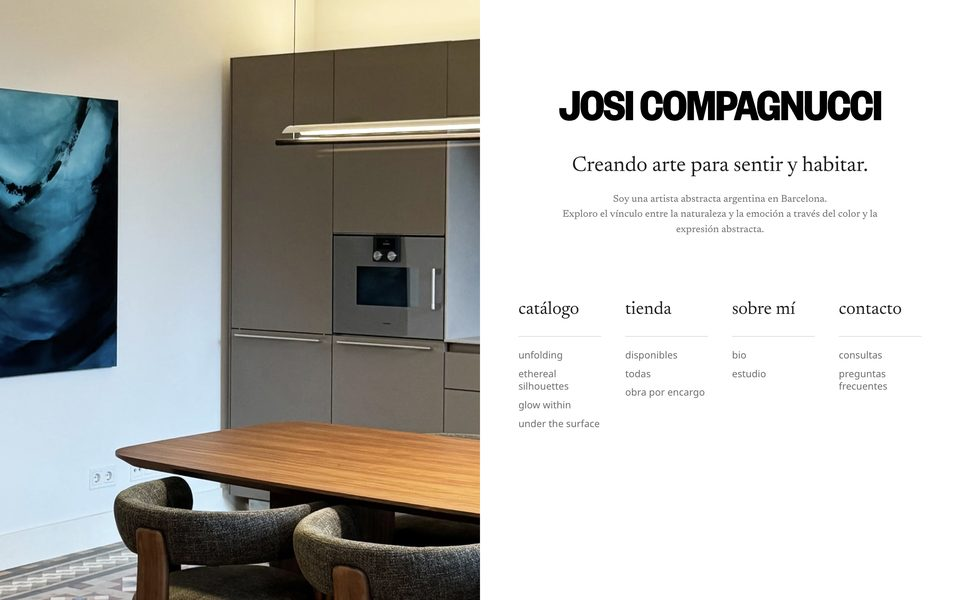
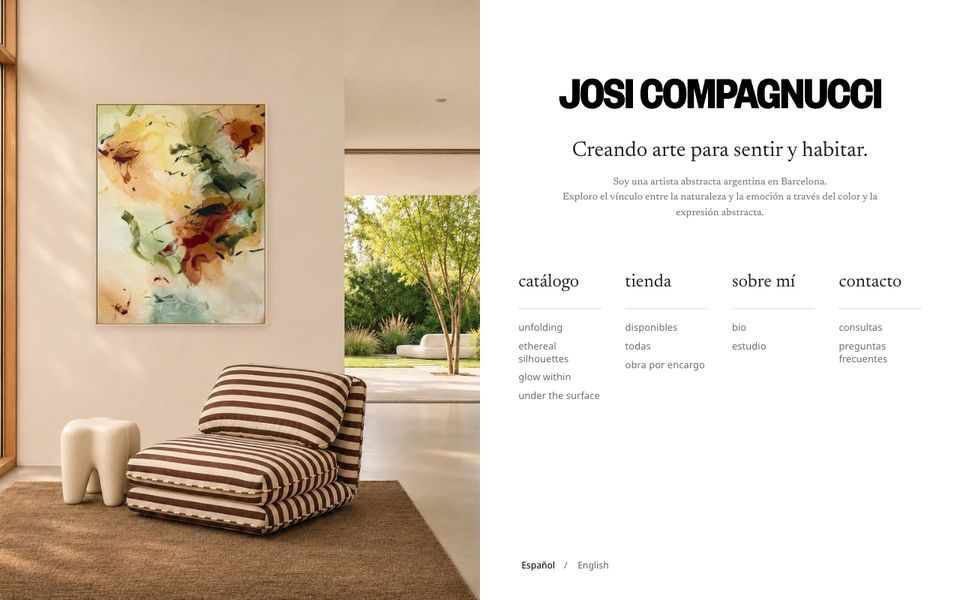
feat: la tienda de Josi Compagnucci pasa a En línea

diff --git a/index.html b/index.html
@@ -247,8 +247,8 @@
         <p class="cl-rotulo"><span class="cl-izq"><span class="cl-par" aria-hidden="true">( </span><span class="cl-t" data-i18n="mk_h">Avanzando juntos</span><span class="cl-par" aria-hidden="true"> ) ↓</span></span></p>
       </div>
       <div class="cl-cinta" aria-label="Algunos de mis clientes" data-i18n-aria="mk_aria">
-        <ul class="cl-pista"><li><a href="https://melou.com.ar" target="_blank" rel="noopener" aria-label="melou"><span class="marca m-melou"></span></a></li><li><a href="https://baza.com.ar" target="_blank" rel="noopener" aria-label="BAZA"><span class="marca m-baza"></span></a></li><li><a href="https://canadahumeda.com.ar" target="_blank" rel="noopener" aria-label="Cañada Húmeda"><span class="marca m-canada"></span></a></li><li><a href="https://airesdesanlorenzo.com" target="_blank" rel="noopener" aria-label="Aires de San Lorenzo"><span class="marca m-aires"></span></a></li><li><a href="https://sauriumchukum.com" target="_blank" rel="noopener" aria-label="Saurium"><span class="marca m-saurium"></span></a></li><li><a href="https://edificiolatorre.com" target="_blank" rel="noopener" aria-label="Edificio La Torre"><span class="marca m-latorre"></span></a></li><li><a href="https://franciscomolins.com" target="_blank" rel="noopener" aria-label="Francisco Molins"><span class="marca m-molins"></span></a></li><li><span class="marca-par"><span class="marca m-bf"></span>BF Studio</span></li><li><a href="https://mavenz.com.ar" target="_blank" rel="noopener" aria-label="MAVENZ"><span class="marca m-mavenz"></span></a></li><li><span class="marca m-josi" role="img" aria-label="Josi Compagnucci"></span></li><li><span class="marca m-retazos" role="img" aria-label="RETAZOS"></span></li></ul>
-        <ul class="cl-pista" aria-hidden="true" inert><li><a href="https://melou.com.ar" target="_blank" rel="noopener" aria-label="melou"><span class="marca m-melou"></span></a></li><li><a href="https://baza.com.ar" target="_blank" rel="noopener" aria-label="BAZA"><span class="marca m-baza"></span></a></li><li><a href="https://canadahumeda.com.ar" target="_blank" rel="noopener" aria-label="Cañada Húmeda"><span class="marca m-canada"></span></a></li><li><a href="https://airesdesanlorenzo.com" target="_blank" rel="noopener" aria-label="Aires de San Lorenzo"><span class="marca m-aires"></span></a></li><li><a href="https://sauriumchukum.com" target="_blank" rel="noopener" aria-label="Saurium"><span class="marca m-saurium"></span></a></li><li><a href="https://edificiolatorre.com" target="_blank" rel="noopener" aria-label="Edificio La Torre"><span class="marca m-latorre"></span></a></li><li><a href="https://franciscomolins.com" target="_blank" rel="noopener" aria-label="Francisco Molins"><span class="marca m-molins"></span></a></li><li><span class="marca-par"><span class="marca m-bf"></span>BF Studio</span></li><li><a href="https://mavenz.com.ar" target="_blank" rel="noopener" aria-label="MAVENZ"><span class="marca m-mavenz"></span></a></li><li><span class="marca m-josi" role="img" aria-label="Josi Compagnucci"></span></li><li><span class="marca m-retazos" role="img" aria-label="RETAZOS"></span></li></ul>
+        <ul class="cl-pista"><li><a href="https://melou.com.ar" target="_blank" rel="noopener" aria-label="melou"><span class="marca m-melou"></span></a></li><li><a href="https://baza.com.ar" target="_blank" rel="noopener" aria-label="BAZA"><span class="marca m-baza"></span></a></li><li><a href="https://canadahumeda.com.ar" target="_blank" rel="noopener" aria-label="Cañada Húmeda"><span class="marca m-canada"></span></a></li><li><a href="https://airesdesanlorenzo.com" target="_blank" rel="noopener" aria-label="Aires de San Lorenzo"><span class="marca m-aires"></span></a></li><li><a href="https://sauriumchukum.com" target="_blank" rel="noopener" aria-label="Saurium"><span class="marca m-saurium"></span></a></li><li><a href="https://edificiolatorre.com" target="_blank" rel="noopener" aria-label="Edificio La Torre"><span class="marca m-latorre"></span></a></li><li><a href="https://franciscomolins.com" target="_blank" rel="noopener" aria-label="Francisco Molins"><span class="marca m-molins"></span></a></li><li><span class="marca-par"><span class="marca m-bf"></span>BF Studio</span></li><li><a href="https://mavenz.com.ar" target="_blank" rel="noopener" aria-label="MAVENZ"><span class="marca m-mavenz"></span></a></li><li><a href="https://josicompagnucci.com" target="_blank" rel="noopener" aria-label="Josi Compagnucci"><span class="marca m-josi"></span></a></li><li><span class="marca m-retazos" role="img" aria-label="RETAZOS"></span></li></ul>
+        <ul class="cl-pista" aria-hidden="true" inert><li><a href="https://melou.com.ar" target="_blank" rel="noopener" aria-label="melou"><span class="marca m-melou"></span></a></li><li><a href="https://baza.com.ar" target="_blank" rel="noopener" aria-label="BAZA"><span class="marca m-baza"></span></a></li><li><a href="https://canadahumeda.com.ar" target="_blank" rel="noopener" aria-label="Cañada Húmeda"><span class="marca m-canada"></span></a></li><li><a href="https://airesdesanlorenzo.com" target="_blank" rel="noopener" aria-label="Aires de San Lorenzo"><span class="marca m-aires"></span></a></li><li><a href="https://sauriumchukum.com" target="_blank" rel="noopener" aria-label="Saurium"><span class="marca m-saurium"></span></a></li><li><a href="https://edificiolatorre.com" target="_blank" rel="noopener" aria-label="Edificio La Torre"><span class="marca m-latorre"></span></a></li><li><a href="https://franciscomolins.com" target="_blank" rel="noopener" aria-label="Francisco Molins"><span class="marca m-molins"></span></a></li><li><span class="marca-par"><span class="marca m-bf"></span>BF Studio</span></li><li><a href="https://mavenz.com.ar" target="_blank" rel="noopener" aria-label="MAVENZ"><span class="marca m-mavenz"></span></a></li><li><a href="https://josicompagnucci.com" target="_blank" rel="noopener" aria-label="Josi Compagnucci"><span class="marca m-josi"></span></a></li><li><span class="marca m-retazos" role="img" aria-label="RETAZOS"></span></li></ul>
       </div>
     </section>
 
@@ -658,6 +658,16 @@
             <div class="demo-shot" data-full="assets/casos/full-baza.webp?v=14bb727f"><img src="assets/casos/case-baza.jpg?v=701b2541" width="960" height="600" alt="Tienda online de BAZA, atelier de cuero de Salta" loading="lazy"></div>
             <div class="demo-info">
               <div><h3>BAZA</h3><small data-i18n="c2s">Tienda a medida · atelier de cuero</small></div>
+              <span class="live"><i aria-hidden="true"></i> <span data-i18n="st_live">En línea</span></span>
+              <span class="demo-ir" aria-hidden="true">↗</span>
+            </div>
+            <div class="demo-ov" aria-hidden="true"><span>Visitar ↗</span></div>
+          </a>
+
+          <a class="demo" data-cat="web" data-cursor="Visitar ↗" data-cursor-en="Visit ↗" href="https://josicompagnucci.com" target="_blank" rel="noopener">
+            <div class="demo-shot"><img src="assets/casos/case-josi.jpg?v=d30b97c5" width="960" height="600" alt="Tienda online de la artista Josi Compagnucci, obra original desde Barcelona" loading="lazy"></div>
+            <div class="demo-info">
+              <div><h3>Josi Compagnucci</h3><small data-i18n="c33s">Tienda de obra original · Barcelona</small></div>
               <span class="live"><i aria-hidden="true"></i> <span data-i18n="st_live">En línea</span></span>
               <span class="demo-ir" aria-hidden="true">↗</span>
             </div>

diff --git a/tiendas-online/index.html b/tiendas-online/index.html
@@ -109,18 +109,20 @@
             <div class="demo-ov" aria-hidden="true"><span>Visitar ↗</span></div>
           </a>
 
+          <a class="demo" data-cat="web" data-cursor="Visitar ↗" data-cursor-en="Visit ↗" href="https://josicompagnucci.com" target="_blank" rel="noopener">
+            <div class="demo-shot"><img src="/assets/casos/case-josi.jpg?v=d30b97c5" width="960" height="600" alt="Tienda online de la artista Josi Compagnucci, obra original desde Barcelona" loading="lazy"></div>
+            <div class="demo-info">
+              <div><h3>Josi Compagnucci</h3><small data-i18n="c33s">Tienda de obra original · Barcelona</small></div>
+              <span class="live"><i aria-hidden="true"></i> <span data-i18n="st_live">En línea</span></span>
+              <span class="demo-ir" aria-hidden="true">↗</span>
+            </div>
+            <div class="demo-ov" aria-hidden="true"><span>Visitar ↗</span></div>
+          </a>
+
           <div class="demo">
             <div class="demo-shot" data-full="/assets/casos/full-retazos.webp?v=b314e3f8"><img src="/assets/casos/case-retazos.jpg?v=aa28ca0a" width="960" height="600" alt="Tienda de RETAZOS, bolsos de media sombra recuperada, en desarrollo" loading="lazy"></div>
             <div class="demo-info">
               <div><h3>RETAZOS</h3><small>Bolsos de media sombra recuperada · Salta</small></div>
-              <span class="live es-wip"><i class="obra" aria-hidden="true"></i><span>En desarrollo</span></span>
-            </div>
-          </div>
-
-          <div class="demo">
-            <div class="demo-shot" data-full="/assets/casos/full-josi.webp?v=7e12b02e"><img src="/assets/casos/case-josi.jpg?v=9e648002" width="960" height="600" alt="Tienda de la artista Josi Compagnucci, en desarrollo" loading="lazy"></div>
-            <div class="demo-info">
-              <div><h3>Josi Compagnucci</h3><small>Obra original · Barcelona</small></div>
               <span class="live es-wip"><i class="obra" aria-hidden="true"></i><span>En desarrollo</span></span>
             </div>
           </div>

diff --git a/proyectos/index.html b/proyectos/index.html
@@ -155,6 +155,16 @@
             <div class="demo-ov" aria-hidden="true"><span>Visitar ↗</span></div>
           </a>
 
+          <a class="demo" data-cat="web" data-cursor="Visitar ↗" data-cursor-en="Visit ↗" href="https://josicompagnucci.com" target="_blank" rel="noopener">
+            <div class="demo-shot"><img src="/assets/casos/case-josi.jpg?v=d30b97c5" width="960" height="600" alt="Tienda online de la artista Josi Compagnucci, obra original desde Barcelona" loading="lazy"></div>
+            <div class="demo-info">
+              <div><h3>Josi Compagnucci</h3><small data-i18n="c33s">Tienda de obra original · Barcelona</small></div>
+              <span class="live"><i aria-hidden="true"></i> <span data-i18n="st_live">En línea</span></span>
+              <span class="demo-ir" aria-hidden="true">↗</span>
+            </div>
+            <div class="demo-ov" aria-hidden="true"><span>Visitar ↗</span></div>
+          </a>
+
           <a class="demo" data-cat="web" data-cursor="Visitar ↗" data-cursor-en="Visit ↗" href="https://sauriumchukum.com" target="_blank" rel="noopener">
             <div class="demo-shot" data-full="/assets/casos/full-saurium.webp?v=1b5850b9"><img src="/assets/casos/case-saurium.jpg?v=98c7b17d" width="960" height="600" alt="Sitio de Saurium, recubrimiento de chukum de la península de Yucatán" loading="lazy"></div>
             <div class="demo-info">

diff --git a/main.js b/main.js
@@ -964,6 +964,7 @@
     c28s: "Real-estate agency · Salta",
     c1s: "Site + bookings · Salta retreats",
     c2s: "Custom store · leather atelier",
+    c33s: "Original artwork store · Barcelona",
     c29s: "Accounting firm · Salta",
     c16s: "Yucatán chukum · bilingual",
     c4s: "Trilingual corporate site · agri",
